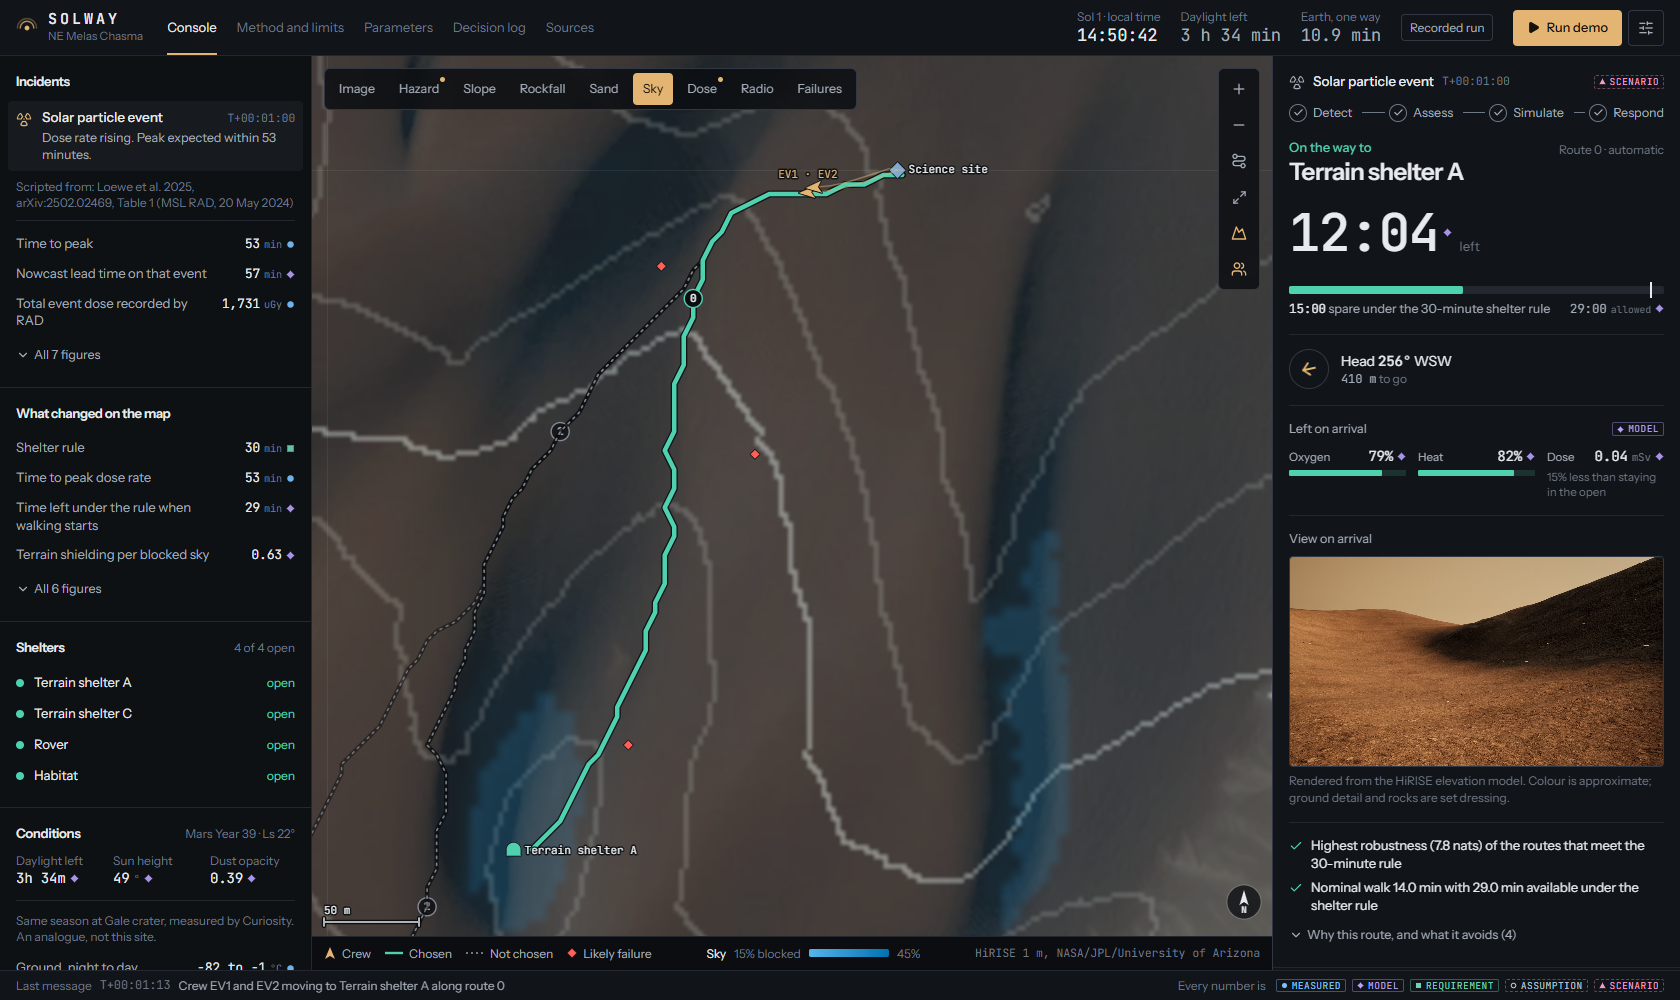
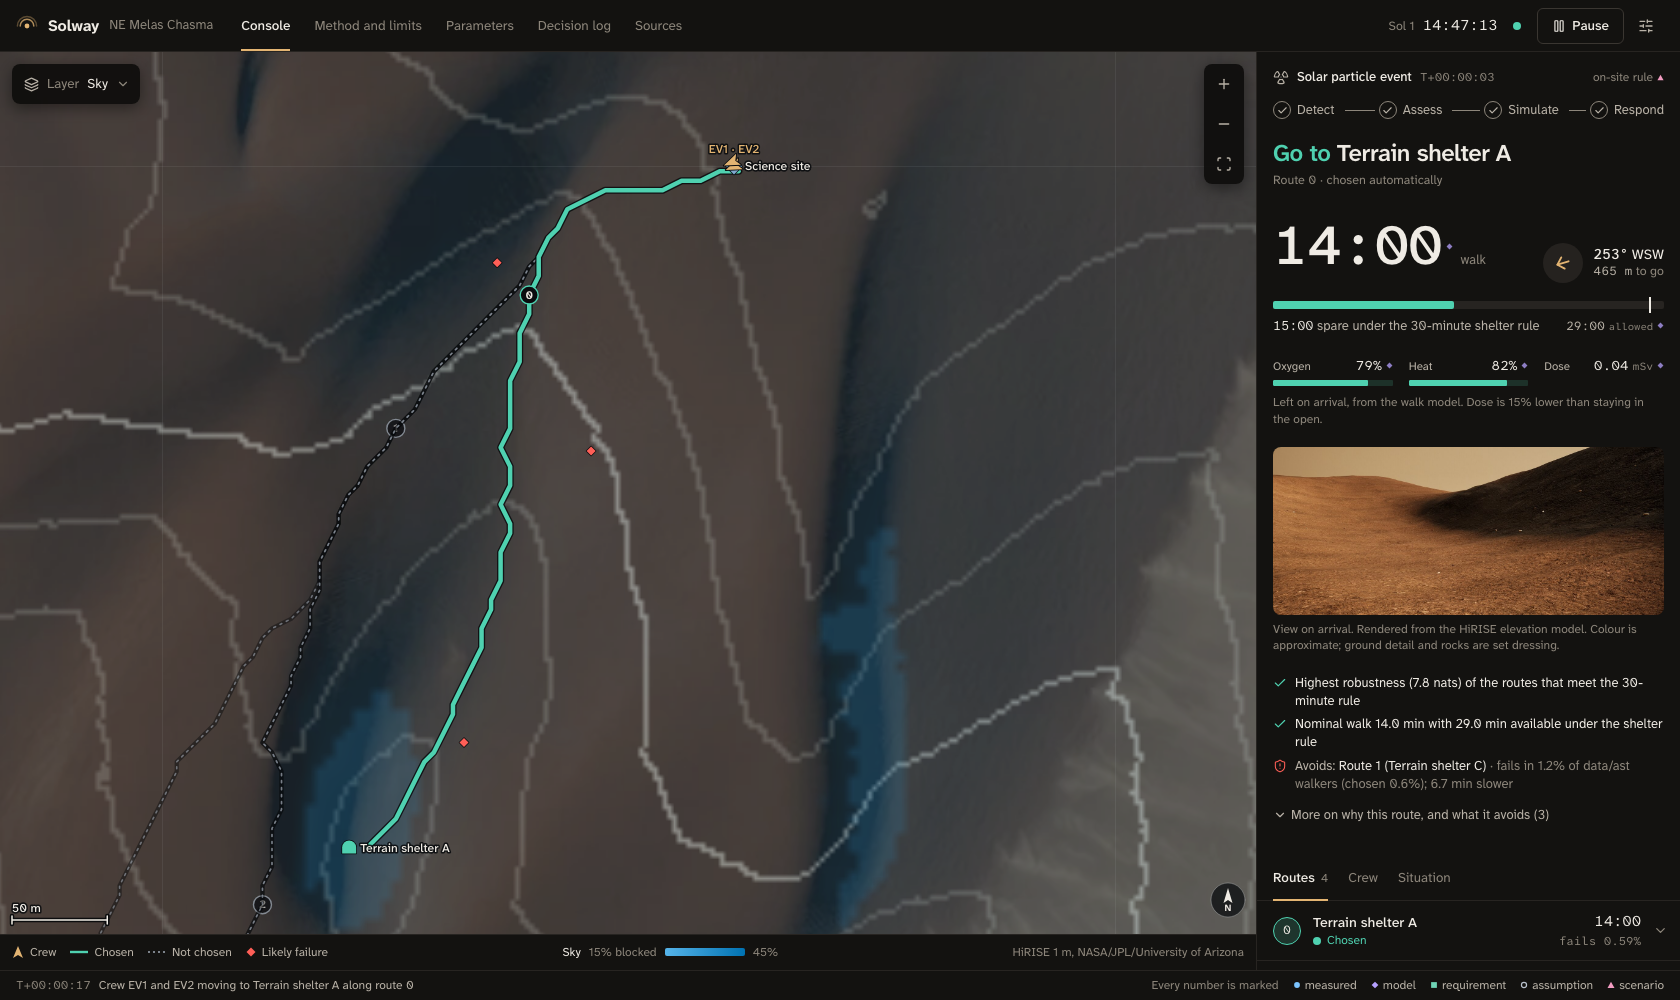
Show avoided hazard, refresh README images, align mock engine

diff --git a/dashboard/src/components/console/ActionCard.tsx b/dashboard/src/components/console/ActionCard.tsx
@@ -150,25 +150,31 @@ function Decided({ b, d, route, compact }: { b: IncidentBundle; d: Decision; rou
             {d.reasons.slice(0, 2).map((r, i) => (
               <li key={i} className="flex gap-2 text-[13px] leading-snug text-ink"><Check size={14} className="mt-[2px] shrink-0 text-safe" />{r}</li>
             ))}
+            {d.avoided.slice(0, 1).map((a, i) => <Avoided key={`a${i}`} a={a} />)}
           </ul>
-          {(d.reasons.length > 2 || d.avoided.length > 0) && (
-            <More label={`Why this route, and what it avoids (${d.reasons.length - Math.min(2, d.reasons.length) + d.avoided.length})`}>
+          {(d.reasons.length > 2 || d.avoided.length > 1) && (
+            <More label={`More on why this route, and what it avoids (${Math.max(0, d.reasons.length - 2) + Math.max(0, d.avoided.length - 1)})`}>
               <ul className="mt-1.5 space-y-1.5">
                 {d.reasons.slice(2).map((r, i) => (
                   <li key={i} className="flex gap-2 text-[13px] leading-snug text-ink"><Check size={14} className="mt-[2px] shrink-0 text-safe" />{r}</li>
                 ))}
-                {d.avoided.map((a, i) => (
-                  <li key={`a${i}`} className="flex gap-2">
-                    <ShieldAlert size={14} className="mt-[2px] shrink-0 text-hazard" strokeWidth={1.8} />
-                    <div className="min-w-0 text-[13px] leading-snug"><span className="text-ink">{a.label}</span>{a.detail && <span className="text-ink3"> · {a.detail}</span>}</div>
-                  </li>
-                ))}
+                {d.avoided.slice(1).map((a, i) => <Avoided key={`a${i}`} a={a} />)}
               </ul>
             </More>
           )}
         </div>
       )}
     </div>
+  )
+}
+
+/** One hazard the chosen route stays out of. */
+function Avoided({ a }: { a: { label: string; detail?: string } }) {
+  return (
+    <li className="flex gap-2">
+      <ShieldAlert size={14} className="mt-[2px] shrink-0 text-hazard" strokeWidth={1.8} />
+      <div className="min-w-0 text-[13px] leading-snug"><span className="text-ink2">Avoids: </span><span className="text-ink">{a.label}</span>{a.detail && <span className="text-ink3"> · {a.detail}</span>}</div>
+    </li>
   )
 }
 

diff --git a/README.md b/README.md
@@ -17,15 +17,21 @@ It is not affiliated with or endorsed by NASA, and it is a planning aid only. No
 
 ![The Solway dashboard during the solar particle event scenario](docs/img/dashboard.png)
 
-The dashboard during the scripted solar particle event. Right: where to go, the walking time against the 30-minute
-shelter rule, the heading, and what is left on arrival. Centre: the map with the chosen route. Left: the incident and
-what it changed. Every figure is labelled as measured, model, requirement, assumption or scenario.
+The dashboard during the solar particle event scenario. One map and one panel. The panel leads with the decision:
+where to go, the walking time against the 30-minute shelter rule, the heading, what is left on arrival, and the hazard
+the chosen route avoids. Below it, three tabs: the routes, the crew, and the situation (how the incident was detected
+and what it changed). Every figure is labelled as measured, model, requirement, assumption or scenario.
+
+![Plan a walk: a click on the map returns the walking route from the crew to that point](docs/img/plan.png)
+
+Plan a walk, before going out: a click on the map returns the route from the crew to that point, with its walking time,
+what is left on arrival, the failure rate from a small local Monte Carlo run, and the metres without radio line of
+sight. No incident is involved and the crew is not sent anywhere.
 
 <img src="docs/img/dashboard_field.png" alt="The same screen on a tablet: one column" width="360">
 
-The same screen has three widths: both side panels on a habitat display, one panel on a laptop, and a single column
-with large targets on a tablet (above). A recorded run of the demo plays in a browser with no engine
-(`npm run build:web`, see below).
+On a tablet or a cuff display the same screen is one column with large targets: the decision first, then the map, then
+the tabs (above). A recorded run of the demo plays in a browser with no engine (`npm run build:web`, see below).
 
 ![The 3D view: two crew members walk the chosen route](docs/img/scene.jpg)
 
@@ -95,7 +101,7 @@ layers, the routes and the stress-test results. The two windows display what the
 | Part | What it does | Technology | Port |
 |---|---|---|---|
 | Engine | Clock, scenario, hazards, route planning, stress tests; serves the dashboard and sends OSC | Python 3.12, numpy, numba, FastAPI, uvicorn, python-osc | 8765 (HTTP and WebSocket `/ws`), sends to UDP 9000 |
-| Dashboard | The product: map, response and situation on one screen in three widths, with method, parameters, decision log and sources pages | Electron, Vite, React 19, Tailwind 4, Recharts | dev server 5173 |
+| Dashboard | The product: one map and one response panel, wide, laptop and single-column field layouts, with method, parameters, decision log and sources pages | Electron, Vite, React 19, Tailwind 4, Recharts | dev server 5173 |
 | Simulation | Real terrain in 3D, crew, hazard overlays, routes, marsquake effects, cameras | Unreal Engine 5.8, project `unreal/MelasSim` | listens on UDP 9000 |
 | Adversary training (optional) | Trains the stress-test adversary offline on another machine and writes `data/ast/` | Python, PyTorch | none |
 
